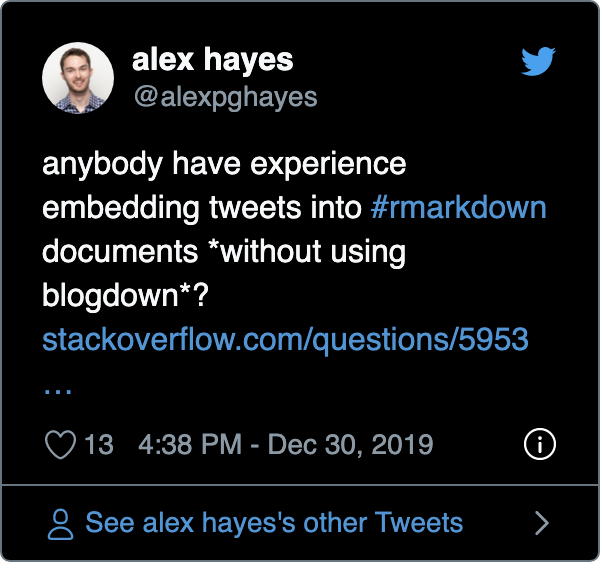
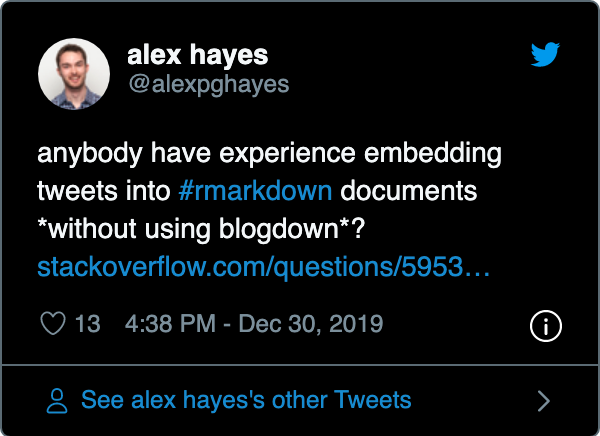
Add no-tracking and markdown output to tweet embedding with `plain = TRUE`

diff --git a/inst/tweet-screenshot-default.css b/inst/tweet-screenshot-default.css
@@ -2,11 +2,12 @@ body {
   font: normal normal 16px/1.4 Helvetica,Roboto,"Segoe UI",Calibri,sans-serif;
   color: #1c2022;
   white-space: normal;
-  transform: scale(%0.2f);
+  transform: 1;
   transform-origin: top left;
+  background-color: transparent;
 }
 #screenshot-tweet {
-  width: min-content;
+  width: max-content;
   height: max-content;
   padding: 0;
 }
@@ -20,6 +21,7 @@ body {
   padding: 1em;
   margin: 0;
   color: #777;
+  box-sizing: border-box;
 }
 #screenshot-tweet blockquote > p {
   margin-top: 0;

diff --git a/README.md b/README.md
@@ -122,6 +122,36 @@ tweet_screenshot(
 
 <img src="man/figures/README-screenshot-customized-1.png" width="300px" />
 
+## Embed without tracking
+
+You can use `tweetrmd` to embed tweets in your documents and outputs
+without including Twitter JavaScript or tracking. The easiest way is to
+set `plain = TRUE` in `include_tweet()`. This will insert minimal HTML
+for web outputs or convert the tweet text to markdown for non-web
+outputs.
+
+``` r
+include_tweet(
+  "https://twitter.com/dsquintana/status/1275705042385940480",
+  plain = TRUE
+)
+```
+
+    > {bookdown} folks: I\'m trying to knit a PDF version of a HTML book
+    > that contains HTML elements (embedded tweets).\
+    > \
+    > Is there a way to automatically take a screenshot of embedded tweets
+    > for PDF output?\
+    > \
+    > Using the {webshot} package + PhantomJS didn\'t
+    > work\...[\#Rstats](https://twitter.com/hashtag/Rstats?src=hash&ref_src=twsrc%5Etfw)
+    >
+    > --- Dan Quintana (\@dsquintana) [June 24,
+    > 2020](https://twitter.com/dsquintana/status/1275705042385940480?ref_src=twsrc%5Etfw)
+
+Alternatively, you can choose to use `tweet_screenshot()` to embed all
+tweets in your documents.
+
 ## Caching tweets with memoization
 
 Tweets are often deleted and re-running `tweet_embed()` or
